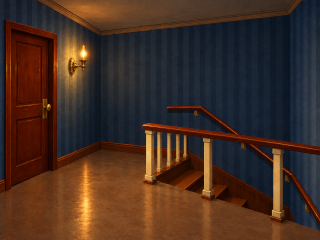
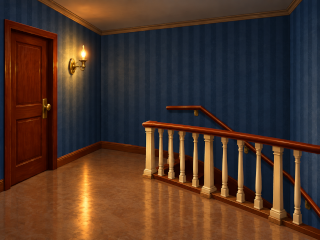
improve direction detection

diff --git a/source/game.c b/source/game.c
@@ -431,61 +431,45 @@ void game_intro(void) {
 // a cardinal one when one axis is more than twice the other, otherwise a
 // diagonal. Only one move is made per push of the stick.
 static void update_movement(circlePosition analog) {
-	const int DEADZONE = 60;
+	const int TRIGGER = 100;
+	const int REARM = 40;
 
 	int x = analog.dx;
 	int y = analog.dy;
+	int r2 = x * x + y * y;
 
-	if (abs(x) < DEADZONE && abs(y) < DEADZONE) {
+	if (r2 < REARM * REARM) {
 		circle_ready = true;
 		return;
 	}
-
-	if (!circle_ready) {
+	if (!circle_ready || r2 < TRIGGER * TRIGGER) {
 		return;
 	}
 
-	int ax = abs(x);
-	int ay = abs(y);
+	// Angle in degrees, 0 = east, counter-clockwise, folded into 0..360
+	float angle = atan2f(y, x) * 180.0f / (float)M_PI;
+	if (angle < 0) {
+		angle += 360.0f;
+	}
 
-	if (ay > ax * 2) {
-		if (y > 0) {
-			circle_ready = false;
-			room_move_north();
-			return;
-		} else if (y < 0) {
-			circle_ready = false;
-			room_move_south();
-			return;
-		}
-	} else if (ax > ay * 2) {
-		if (x > 0) {
-			circle_ready = false;
-			room_move_east();
-			return;
-		} else if (x < 0) {
-			circle_ready = false;
-			room_move_west();
-			return;
-		}
+	circle_ready = false;
+
+	if (angle < 22.5f || angle >= 337.5f) {
+		room_move_east();
+	} else if (angle < 67.5f) {
+		room_move_northeast();
+	} else if (angle < 112.5f) {
+		room_move_north();
+	} else if (angle < 157.5f) {
+		room_move_northwest();
+	} else if (angle < 202.5f) {
+		room_move_west();
+	} else if (angle < 247.5f) {
+		room_move_southwest();
+	} else if (angle < 292.5f) {
+		room_move_south();
 	} else {
-		if (x > 0 && y > 0) {
-			circle_ready = false;
-			room_move_northeast();
-			return;
-		} else if (x < 0 && y > 0) {
-			circle_ready = false;
-			room_move_northwest();
-			return;
-		} else if (x > 0 && y < 0) {
-			circle_ready = false;
-			room_move_southeast();
-			return;
-		} else if (x < 0 && y < 0) {
-			circle_ready = false;
-			room_move_southwest();
-			return;
-		}
+		room_move_southeast();
 	}
 }
 
@@ -710,7 +694,7 @@ bool game_update(u32 keys, circlePosition analog, touchPosition touch) {
 
 		case GAME_MESSAGE:
 			hud_update();
-			if (keys & (KEY_A | KEY_B | KEY_TOUCH)) {
+			if (keys) {
 				game_mode = GAME_NORMAL;
 				examine_image = (C2D_Image){0};
 			}

diff --git a/source/inventory.c b/source/inventory.c
@@ -244,7 +244,7 @@ void inventory_set_columns(size_t value) {
 bool inventory_update(u32 keys) {
     if (inventory_mode == INVENTORY_ACTION) {
 // While examining, every key is swallowed; only X or B leave the view.
-        if ((keys & KEY_X) || (keys & KEY_B)) {
+        if (keys) {
             inventory_mode = INVENTORY_NORMAL;
         }
         return true;
